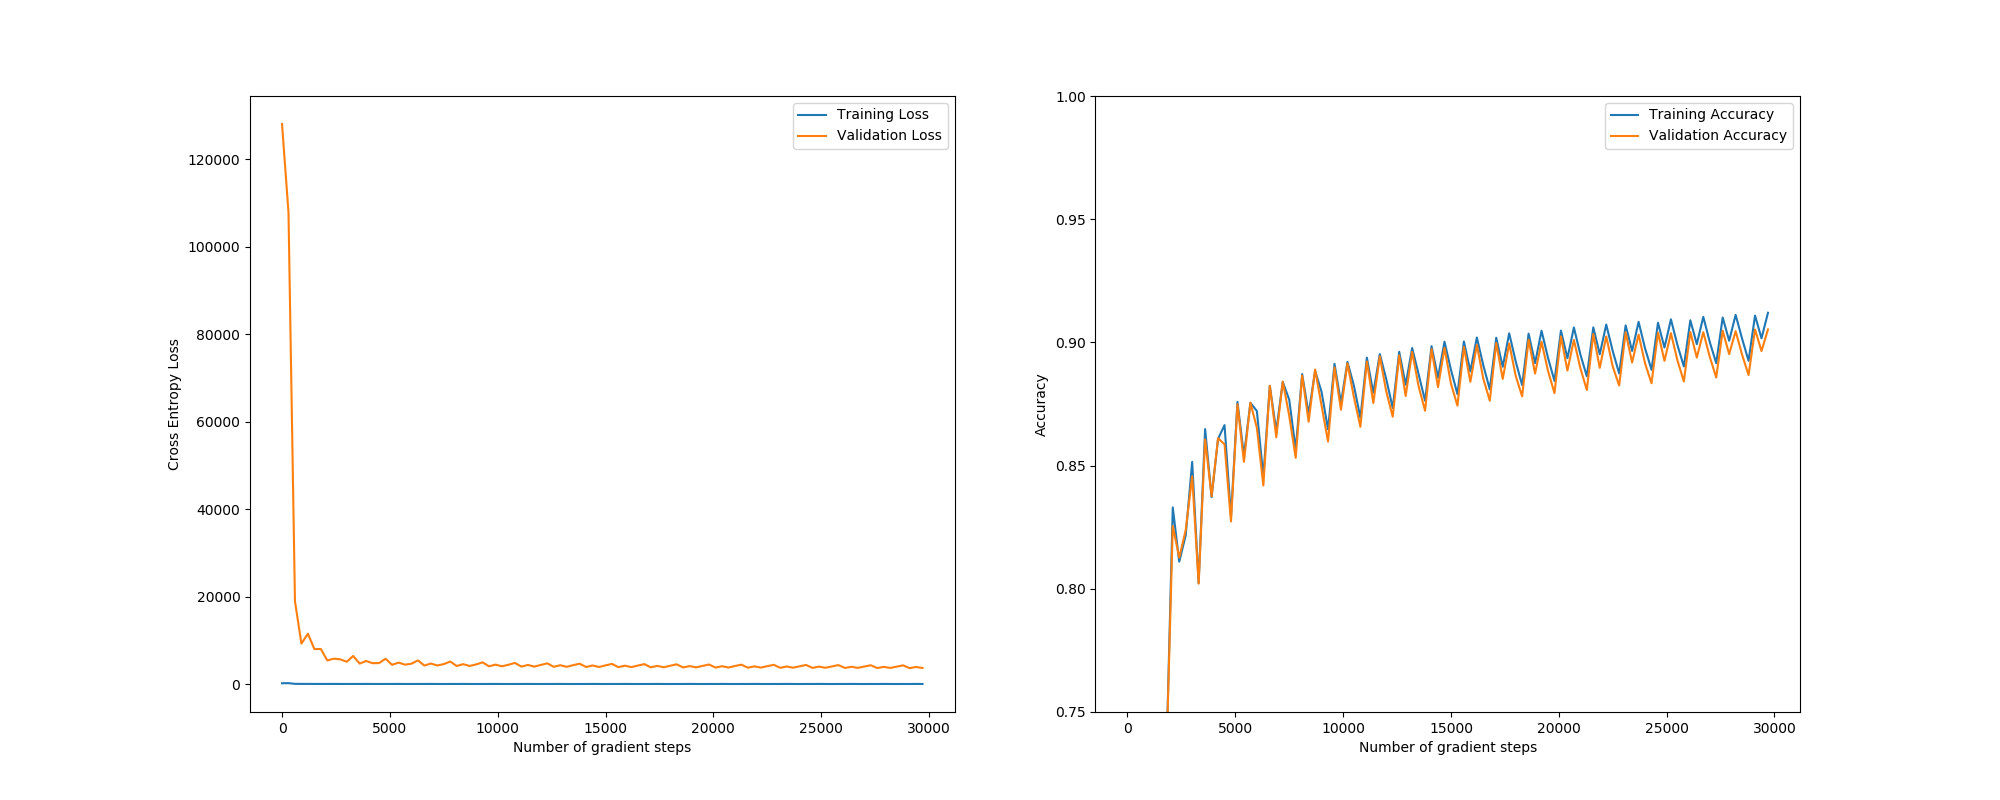
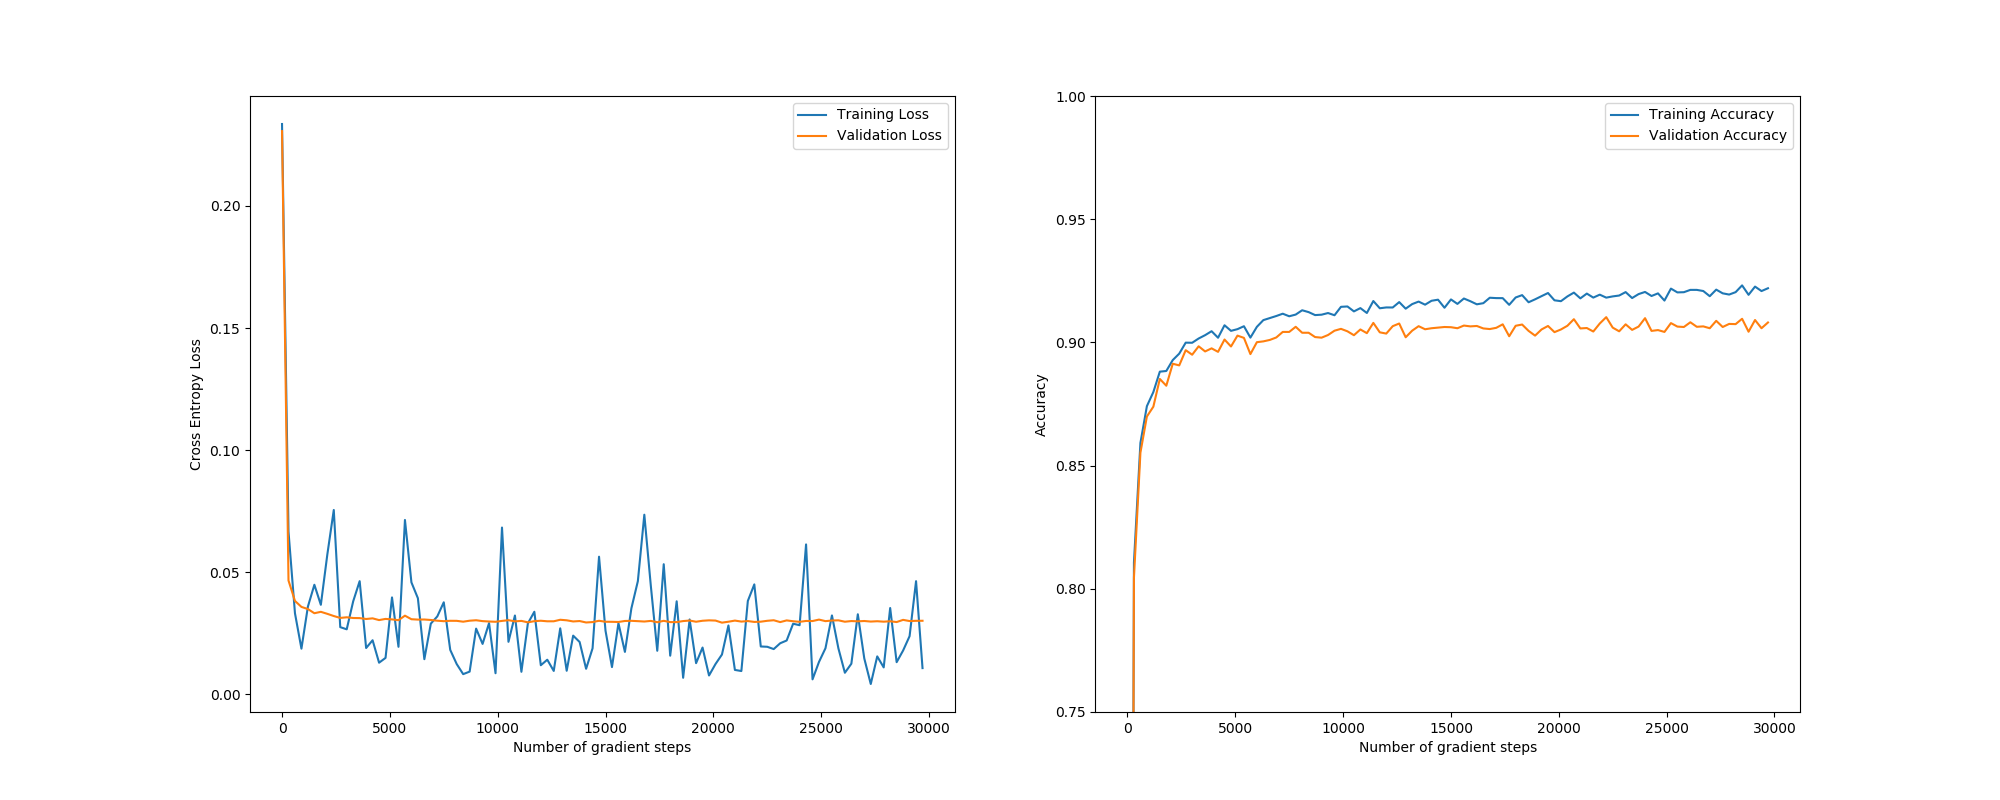
3b

diff --git a/TDT4265-StarterCode-master/assignment2/task2a.py b/TDT4265-StarterCode-master/assignment2/task2a.py
@@ -18,6 +18,12 @@ class Layer:
 def sigmoid(x: np.ndarray):
     return 1 / (1 + np.exp(-x))
 
+def improved_sigmoid(x: np.ndarray):
+    return 1.7159*np.tanh((2/3)*x)
+
+def improved_sigmoid_derivative(x: np.ndarray):
+    return 1.7159*2.0 / (3.0*(np.cosh(((2.0/3.0)*x))**2))
+
 def softmax(a: np.ndarray):
     a_exp = np.exp(a)
     return a_exp / a_exp.sum(axis=1, keepdims=True)
@@ -100,7 +106,10 @@ class SoftmaxModel:
             y: output of model with shape [batch size, num_outputs]
         """
         self.z_j = np.matmul(X,self.ws[0]) #(100,64)
-        self.a_j = sigmoid(self.z_j) #(100,64)
+        if self.use_improved_sigmoid == True:
+            self.a_j = improved_sigmoid(self.z_j)
+        else:
+            self.a_j = sigmoid(self.z_j) #(100,64)
         z_k = np.matmul(self.a_j,self.ws[1]) #(100,10)
         output = softmax(z_k) #(100,10)
         return output
@@ -120,8 +129,13 @@ class SoftmaxModel:
 
         d_k = -(targets - outputs) #(100x10)
         grad_1 = np.matmul(self.a_j.T, d_k)
-    
-        df = self.a_j*(1-self.a_j) #(100x64)
+
+        df = None
+        if self.use_improved_sigmoid == True:
+            df = improved_sigmoid_derivative(self.a_j)
+        else:
+            df = self.a_j*(1-self.a_j) #(100x64)
+
         temp = self.ws[1].dot(d_k.T) #(64x100)
         d_j = df.T*temp #(64x100)
         grad_0 = np.matmul(X.T, d_j.T)

diff --git a/TDT4265-StarterCode-master/assignment2/task2.py b/TDT4265-StarterCode-master/assignment2/task2.py
@@ -5,6 +5,11 @@ import typing
 from task2a import cross_entropy_loss, SoftmaxModel, one_hot_encode, pre_process_images
 np.random.seed(0)
 
+def shuffle_in_unison(a, b):
+    state = np.random.get_state()
+    a = np.random.shuffle(a)
+    np.random.set_state(state)
+    b = np.random.shuffle(b)
 
 def calculate_accuracy(X: np.ndarray, targets: np.ndarray,
                        model: SoftmaxModel) -> float:
@@ -50,6 +55,9 @@ def train(
 
     global_step = 0
     for epoch in range(num_epochs):
+        # Shuffling before next epoch
+        if use_shuffle == True:
+            shuffle_in_unison(X_train, Y_train)
         for step in range(num_batches_per_epoch):
             start = step * batch_size
             end = start + batch_size
@@ -99,8 +107,8 @@ if __name__ == "__main__":
     momentum_gamma = .9  # Task 3 hyperparameter
 
     # Settings for task 3. Keep all to false for task 2.
-    use_shuffle = False
-    use_improved_sigmoid = False
+    use_shuffle = True
+    use_improved_sigmoid = True
     use_improved_weight_init = False
     use_momentum = False
 
